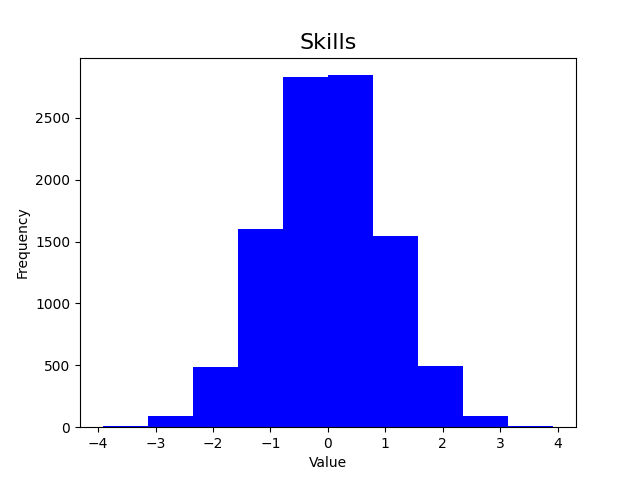
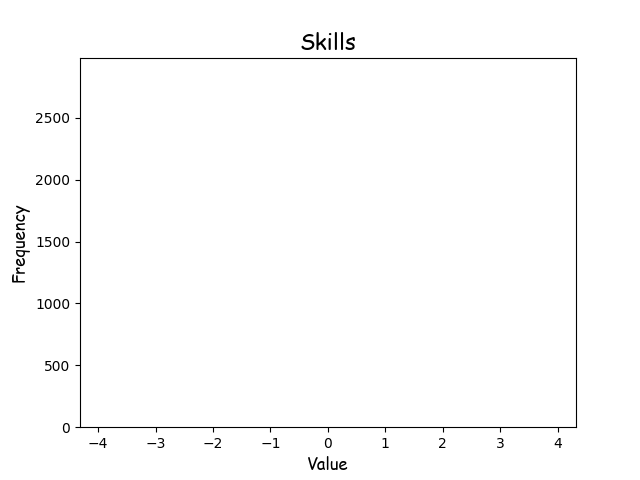
more

diff --git a/Scripts/statistics.py b/Scripts/statistics.py
@@ -25,9 +25,9 @@ def display_plot():
 
     fig, ax = plt.subplots()  # Create a figure and axis
     ax.hist(data, color='blue')  # Plot the histogram on the axis
-    ax.set_title("Skills", fontdict={"fontname": "intern", "size": 16})
-    ax.set_xlabel('Value')
-    ax.set_ylabel('Frequency')
+    ax.set_title("Skills", fontdict={"fontname": "Comic Sans MS", "size": 16})
+    ax.set_xlabel('Value', fontdict={"fontname": "Comic Sans MS", "size": 12})
+    ax.set_ylabel('Frequency', fontdict={"fontname": "Comic Sans MS", "size": 12})
     fig.patch.set_alpha(0.0)  # Figure background transparency
     ax.patch.set_alpha(0.0)  # Axes background transparency
     fig.savefig('histogram.png')  # Save the figure as a PNG file
@@ -37,9 +37,9 @@ def display_plot():
 
     fig, ax = plt.subplots()  # Create a figure and axis
     ax.hist(data, color='blue')  # Plot the histogram on the axis
-    ax.set_title("Recent tests", fontdict={"fontname": "intern", "size": 16})
-    ax.set_xlabel('Value')
-    ax.set_ylabel('Frequency')
+    ax.set_title("Recent tests", fontdict={"fontname": "Comic Sans MS", "size": 16})
+    ax.set_xlabel('Value', fontdict={"fontname": "Comic Sans MS", "size": 12})
+    ax.set_ylabel('Frequency', fontdict={"fontname": "Comic Sans MS", "size": 12})
     fig.patch.set_alpha(0.0)  # Figure background transparency
     ax.patch.set_alpha(0.0)  # Axes background transparency
     fig.savefig('histogram2.png')  # Save the figure as a PNG file
